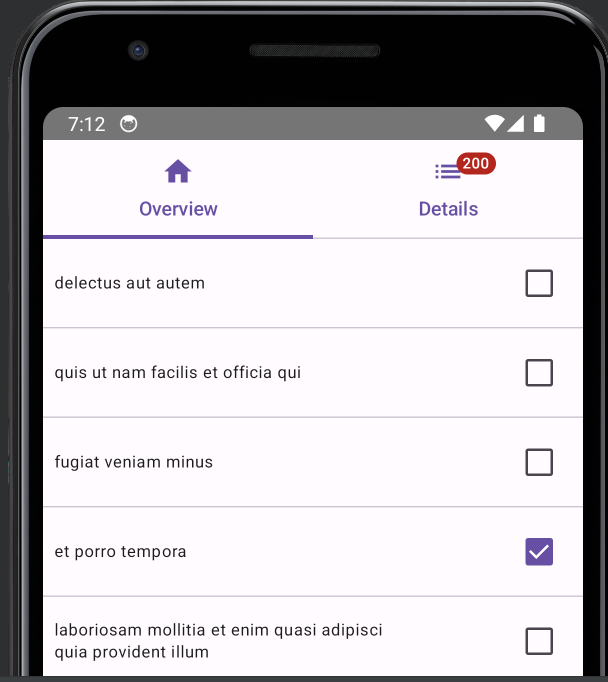
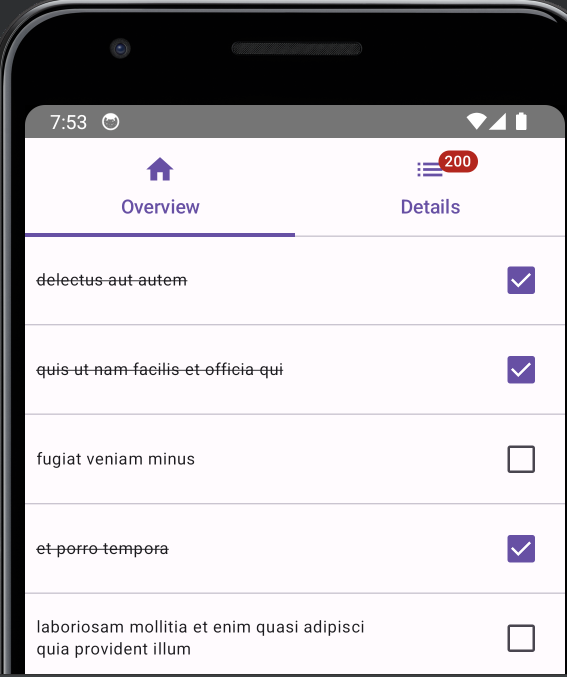
- feat: title crossed out, when Todo done
- docs: overworked docs for this usecase

Changed region(s): [[0.0, 0.0, 1.0, 1.0], [0.2099, 0.2171, 0.3598, 0.3412], [0.1799, 0.062, 0.2399, 0.0931]]

diff --git a/todo/app/src/main/java/at/htl/todo/ui/layout/MainView.kt b/todo/app/src/main/java/at/htl/todo/ui/layout/MainView.kt
@@ -42,6 +42,7 @@ import androidx.compose.ui.Alignment
 import androidx.compose.ui.Modifier
 import androidx.compose.ui.graphics.BlendMode.Companion.Screen
 import androidx.compose.ui.input.nestedscroll.nestedScroll
+import androidx.compose.ui.text.style.TextDecoration
 import androidx.compose.ui.text.style.TextOverflow
 import androidx.compose.ui.tooling.preview.Preview
 import androidx.compose.ui.unit.dp
@@ -102,7 +103,7 @@ fun TodoRow(todo: Todo, index: Int, store: ModelStore) {
     ) {
         Text(
             text = todo.title,
-            style = MaterialTheme.typography.bodySmall,
+            style = MaterialTheme.typography.bodySmall.copy(textDecoration = if (todo.completed) TextDecoration.LineThrough else TextDecoration.None),
             overflow = TextOverflow.Ellipsis,
             modifier = Modifier.weight(3f)
         )
